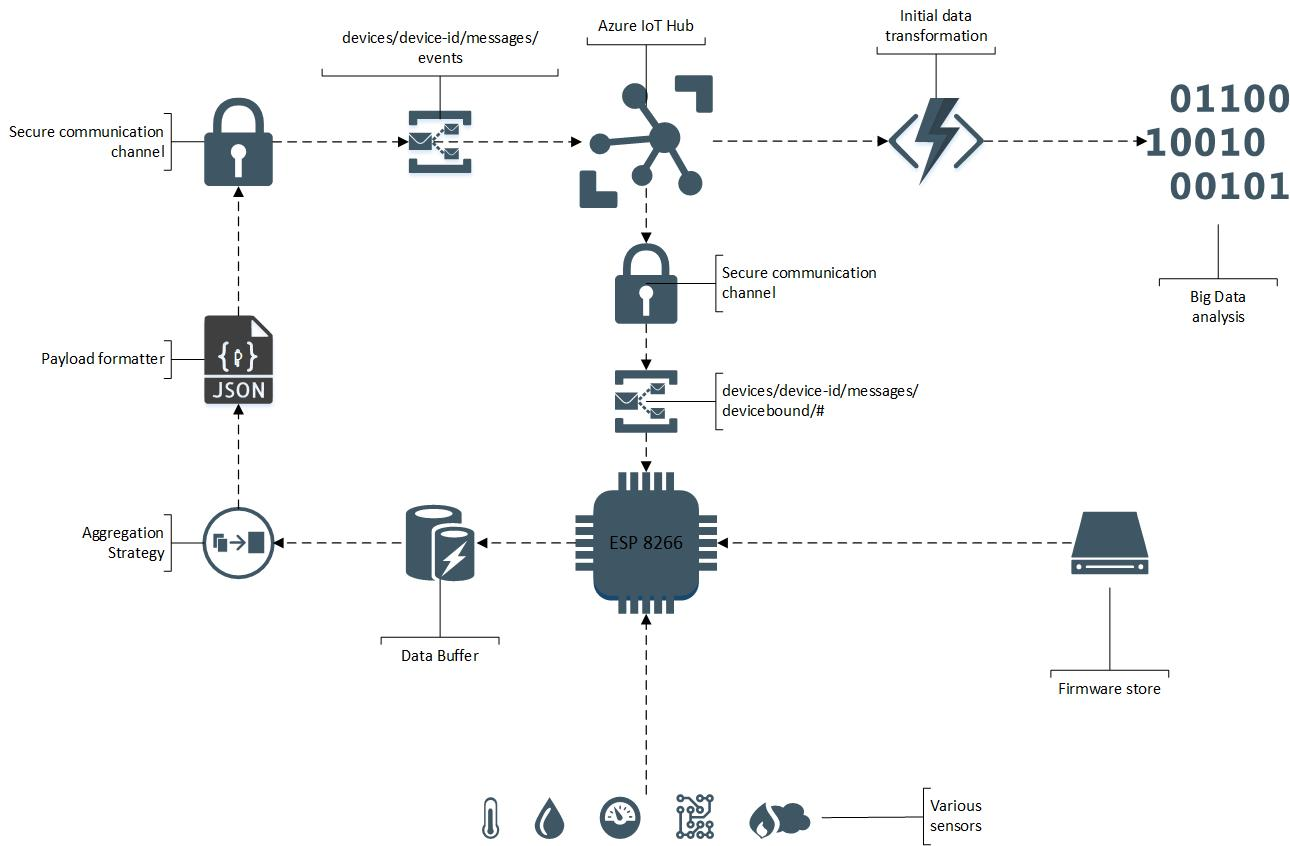
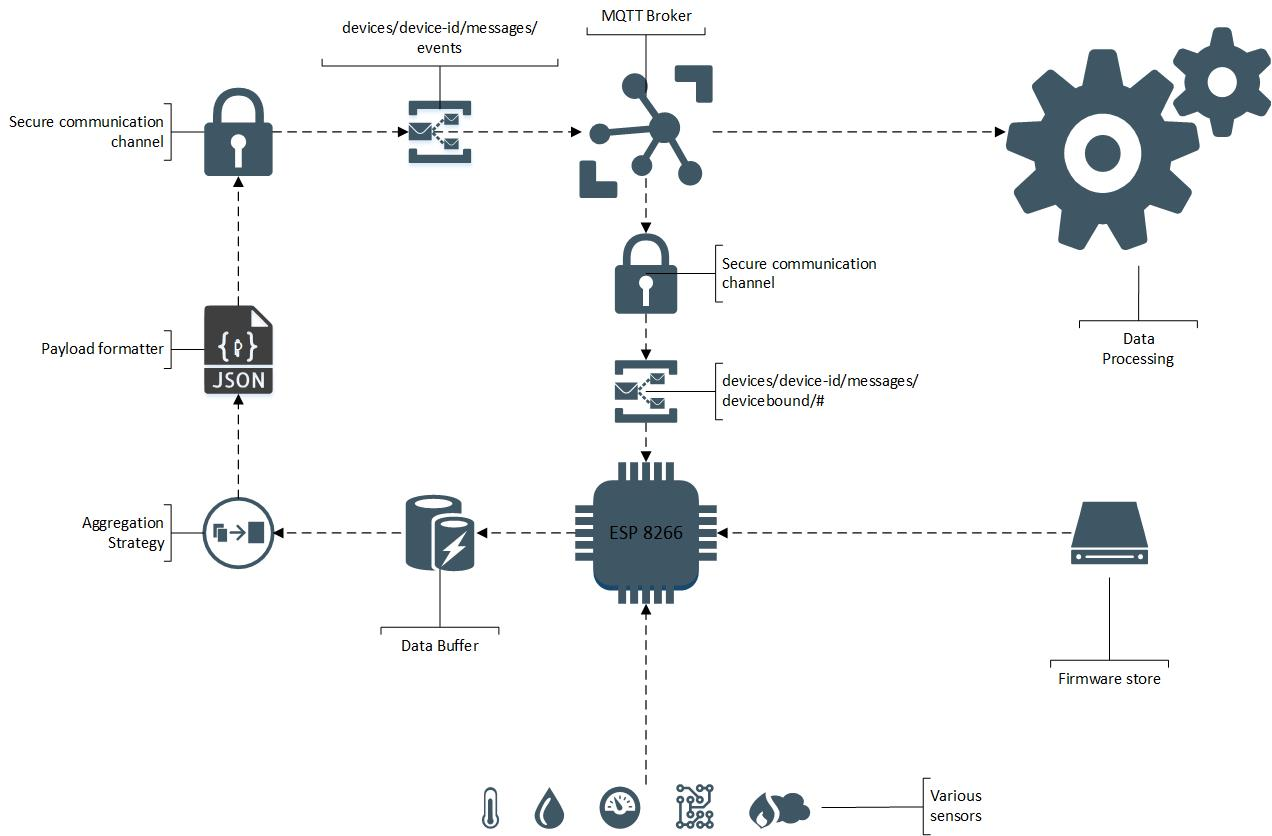
Make description backend platform agnostic

diff --git a/NodeMCU-Platform.md b/NodeMCU-Platform.md
@@ -18,7 +18,7 @@ Software is designed to run on ESP8266 boards in any version capable to work und
 * Handle data transfering via MQTT protocol
 * Ensure data is encrypted and device is authenticated against OpenSmoge backend (Azure IoT Hub)
 * Handle data buffering and throttling.
-* Managed from cloud.
+* Managed from backend.
 * OTA (over the air) software updates.
 * Easy to use setup via web page.
 * mDNS support - no IP needed to acces device from local network.
@@ -32,11 +32,11 @@ Software is designed to run on ESP8266 boards in any version capable to work und
 
 ### Authentication and security
 
-Platform is sending sensor data to Azure IoT Hub using MQTT protocol via secured TSL connection. Each device authenticate using **device-id** generated when device is registered and pair of access keys: primary and secondary access key. Normally device use primary key, but in case of key compromising device use secondary key to authenticate and request new pair of keys.
+Platform is sending sensor data to MQTT broker via secured TSL connection. Each device authenticate using **device-id** generated when device is registered and pair of access keys: primary and secondary access key. Normally device use primary key, but in case of key compromising device use secondary key to authenticate and request new pair of keys.
 
-### Sending mesurements to cloud
+### Sending mesurements to backend
 
-Device is sending data to backend on standard Azure IoT Hub events topic. All data are serialized to JSON accordingly to JSON payload described in AcquisitionAPI.
+Device is sending data to backend on well defined events topic. All data are serialized to JSON accordingly to JSON payload described in AcquisitionAPI.
 Sending data is managed internally and may by throttled.
 
 ```
@@ -62,13 +62,13 @@ TOPIC NAME: devices/device-id/messages/devicebound/#
 
 ## Data buffering
 
-To ensure data are sent in proper way with respect to throttling settings device developer is not sending data directly to MQTT topic, but put them into buffer, which is being automaticaly flused to the Cloud. Buffer may apply one of below data aggregation strategy depends on setting recieved from Cloud:
+To ensure data are sent in proper way with respect to throttling settings device developer is not sending data directly to MQTT topic, but put them into buffer, which is being automaticaly flused to the backend. Buffer may apply one of below data aggregation strategy depends on setting recieved from backend:
 
-* Packaging - all mesurements are send to Cloud in one package.
-* Average - average value od buffer with additonal min and max values is send to Cloud.
-* Median - median value of buffer with additonal min and max values is send to Cloud.
+* Packaging - all mesurements are send to backend in one package.
+* Average - average value od buffer with additonal min and max values is send to backend.
+* Median - median value of buffer with additonal min and max values is send to backend.
 
-OpenSmog NodeMCU Platform expose simple interface to put sensor data into buffer using fire & forget strategy: device developer may not care what happends with data in buffer, just assume that all will be properly transfered to the Cloud. 
+OpenSmog NodeMCU Platform expose simple interface to put sensor data into buffer using fire & forget strategy: device developer may not care what happends with data in buffer, just assume that all will be properly transfered to the backend. 
 
 ```
 StoreData(sensor, value)
@@ -80,7 +80,7 @@ To avoid phisical maintanance of device in terms of software update, platform us
 
 ## Web setup
 
-Initial configuration like WiFi settings, deviceId and security keys are provided via web interface during initial setup when OSNP works in Acces Point mode exposing own network OpenSmog_XXXX. After providing all requiered data device reboots join provied network and start sending sensor data to the Cloud. If reconfiguration is needed end user may use hardware reset button to restore device to factory defalts.
+Initial configuration like WiFi settings, deviceId and security keys are provided via web interface during initial setup when OSNP works in Acces Point mode exposing own network OpenSmog_XXXX. After providing all requiered data device reboots join provied network and start sending sensor data to the backend. If reconfiguration is needed end user may use hardware reset button to restore device to factory defalts.
 
 ## Status page and mDNS
 
